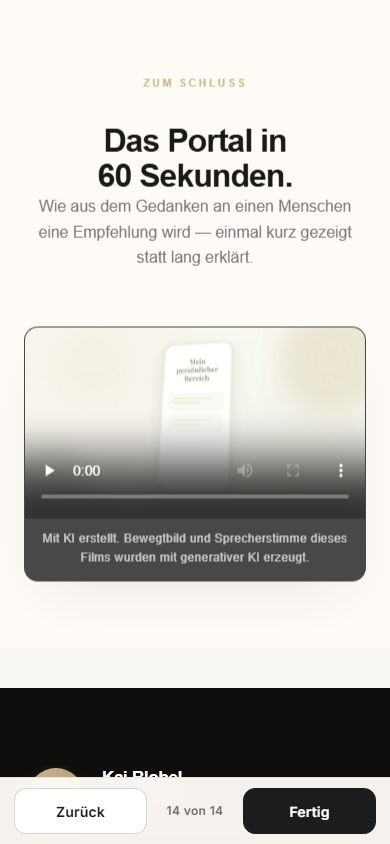
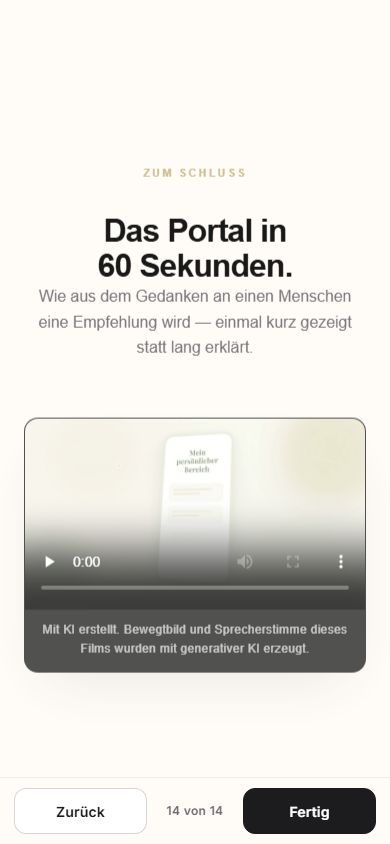
v1.190 Phase 164: Mobile Fuehrung - volle Seiten, weichende Leiste
Kais Rueckmeldung vom Handy: Beim freien Scrollen stand die Leiste im
Weg, und Weiter zeigte Abschnitte nur angeschnitten. Jetzt fuellt jeder
Abschnitt in der Fuehrung mindestens den Bildschirm (Weiter zeigt immer
eine komplette Seite), und beim Scrollen mit Finger oder Mausrad weicht
die Leiste nach unten, bis das Scrollen ruht. Bei Spruengen ueber
Zurueck/Weiter bleibt sie stehen. Erkannt am direkten Signal
(touchmove/wheel), nicht am Scroll-Ereignis.

Kennungen programm.css?v=90 / programm.js?v=50, Service-Worker
v149-2026-08-09b, neue Zusicherungen im Test, 29 Browserpruefungen gruen.

diff --git a/css/programm.css b/css/programm.css
@@ -6325,3 +6325,43 @@ body.presentation-video .reveal { opacity: 1; transform: none; transition: none;
 @media (max-width: 767px) and (prefers-reduced-motion: reduce) {
   .mobile-guide-btn { transition: none; }
 }
+
+/* ============================================================
+   Phase 164 · Mobile Führung: volle Seiten, weichende Leiste
+   ------------------------------------------------------------
+   Kais Rückmeldung vom ersten Live-Tag: Beim freien Scrollen
+   stand die Leiste im Weg, und Weiter zeigte Abschnitte nur
+   angeschnitten. Deshalb: (1) Jeder Abschnitt füllt in der
+   Führung mindestens den Bildschirm — Weiter zeigt immer eine
+   komplette Seite, nichts ragt vom nächsten Thema herein.
+   Längere Abschnitte wachsen darüber hinaus und scrollen normal.
+   (2) Beim Scrollen mit dem Finger weicht die Leiste nach unten
+   und kommt zurück, sobald das Scrollen ruht. Bei Sprüngen über
+   Zurück/Weiter bleibt sie stehen, sonst verschwände sie unter
+   dem Daumen. :where() hält die Ausnahme-Spezifität bei null,
+   damit die Phase-163-Regeln für Hero und Zufriedenheit weiter
+   gewinnen.
+   ============================================================ */
+@media (max-width: 767px) {
+  /* Vollbild je Abschnitt; die Zufriedenheits-Sektion regelt ihr
+     Vollbild-Layout seit Phase 163 selbst (padding sitzt innen). */
+  body.mobile-guided section.section:where(:not(.pre-hero)) {
+    min-height: 100vh;
+    min-height: 100svh;
+    padding-bottom: calc(88px + env(safe-area-inset-bottom));
+  }
+  /* Zentrieren + Kopf-Abstand nur für die Flex-Abschnitte; die zwei
+     randlosen Grid-Flächen (Tür-Botschaft, Förder-Rechner) und die
+     Zufriedenheit ordnen ihren Inhalt selbst. */
+  body.mobile-guided section.section:where(:not(.pre-hero):not(.promoter-message):not(.foerder-rechner)) {
+    justify-content: center;
+    padding-top: 72px;
+  }
+
+  body.mobile-guided .mobile-guide { transition: transform 0.28s ease; }
+  body.mobile-guided .mobile-guide.weicht { transform: translateY(110%); }
+}
+
+@media (max-width: 767px) and (prefers-reduced-motion: reduce) {
+  body.mobile-guided .mobile-guide { transition: none; }
+}

diff --git a/js/programm.js b/js/programm.js
@@ -1005,6 +1005,30 @@ if (hero) heroObserver.observe(hero);
     }
   }
 
+  // Beim Scrollen mit dem Finger weicht die Leiste, damit sie keinen Inhalt
+  // verdeckt; ruht das Scrollen, steht sie wieder. Erkannt wird das am
+  // direkten Signal (Finger auf dem Schirm, Mausrad) — Sprünge über die
+  // Knöpfe erzeugen keines von beiden, dabei bleibt die Leiste also stehen
+  // und verschwindet nicht unter dem Daumen, der gerade klickt.
+  let ruheTimer = 0;
+
+  function planeRueckkehr() {
+    window.clearTimeout(ruheTimer);
+    ruheTimer = window.setTimeout(() => {
+      guide.classList.remove('weicht');
+      zeichne();
+    }, 320);
+  }
+
+  function verstecke() {
+    if (!kleinerSchirm.matches) return;
+    guide.classList.add('weicht');
+    planeRueckkehr();
+  }
+
+  window.addEventListener('touchmove', verstecke, { passive: true });
+  window.addEventListener('wheel', verstecke, { passive: true });
+
   function springeZu(section) {
     section?.scrollIntoView({
       behavior: ruhigeBewegung.matches ? 'auto' : 'smooth',
@@ -1030,14 +1054,20 @@ if (hero) heroObserver.observe(hero);
   function schalte() {
     const aktiv = kleinerSchirm.matches;
     guide.hidden = !aktiv;
+    guide.classList.remove('weicht');
+    window.clearTimeout(ruheTimer);
     document.body.classList.toggle('mobile-guided', aktiv);
     if (aktiv) zeichne();
   }
 
-  // Beim Scrollen den Stand nachführen — gebündelt auf einen Frame.
+  // Beim Scrollen den Stand nachführen — gebündelt auf einen Frame. Läuft
+  // die Seite nach dem Loslassen des Fingers noch aus, hält jedes
+  // Scroll-Ereignis die gewichene Leiste weiter unten, bis 320 ms Ruhe sind.
   let angefragt = false;
   window.addEventListener('scroll', () => {
-    if (!kleinerSchirm.matches || angefragt) return;
+    if (!kleinerSchirm.matches) return;
+    if (guide.classList.contains('weicht')) planeRueckkehr();
+    if (angefragt) return;
     angefragt = true;
     requestAnimationFrame(() => { angefragt = false; zeichne(); });
   }, { passive: true });

diff --git a/programm.html b/programm.html
@@ -15,7 +15,7 @@
   <meta name="twitter:image" content="https://empfehlungsportal.vercel.app/assets/images/og-cover.png" />
 
   <link rel="stylesheet" href="css/style.css?v=33" />
-  <link rel="stylesheet" href="css/programm.css?v=89" />
+  <link rel="stylesheet" href="css/programm.css?v=90" />
   <script src="js/config.js"></script>
 </head>
 <body data-page="programm">
@@ -917,6 +917,6 @@
 
 
   <script>document.getElementById('footerYear').textContent = new Date().getFullYear();</script>
-  <script type="module" src="js/programm.js?v=49"></script>
+  <script type="module" src="js/programm.js?v=50"></script>
 </body>
 </html>

diff --git a/js/config.js b/js/config.js
@@ -7,5 +7,5 @@ window.ENV_BERATER_TITEL = 'Regionaldirektion · Team Wachsbleiche';
 window.ENV_BERATER_FOTO = '/assets/images/kai-portrait.jpg';
 window.ENV_CALENDLY_URL = ''; // sobald Kai einen Link schickt, hier eintragen — Karte erscheint automatisch
 window.ENV_TURNSTILE_SITE_KEY = ''; // optionaler statischer Fallback; produktiv kommt der Site-Key aus /api/promoter-config
-window.APP_VERSION = 'v1.189 Beta';
-window.APP_PHASE = 'Phase 163 · Geführte mobile Präsentation';
+window.APP_VERSION = 'v1.190 Beta';
+window.APP_PHASE = 'Phase 164 · Mobile Führung: volle Seiten, weichende Leiste';

diff --git a/sw.js b/sw.js
@@ -13,7 +13,7 @@
  * trägt — die darf nie veraltet sein.
  */
 
-const CACHE_VERSION = 'v148-2026-08-09';
+const CACHE_VERSION = 'v149-2026-08-09b';
 const SHELL_CACHE = `shell-${CACHE_VERSION}`;
 const ASSET_CACHE = `assets-${CACHE_VERSION}`;
 

diff --git a/CHANGELOG.md b/CHANGELOG.md
@@ -1,9 +1,26 @@
 # Changelog · Empfehlungsportal
 
 Versionierung: `v1.{Phase}` — jede Phase im Build-Plan bekommt eine Minor.
-Offizielle Live-Version: **v1.189 Beta** · Geführte mobile Präsentation, live seit 09.08.2026.
+Offizielle Live-Version: **v1.190 Beta** · Mobile Führung mit vollen Seiten und weichender Leiste, live seit 09.08.2026.
 
 ---
+
+## v1.190 Beta - Phase 164 · Mobile Führung: volle Seiten, weichende Leiste
+**2026-08-09 · live veröffentlicht**
+
+Kais Rückmeldung direkt vom Handy nach dem v1.189-Start: Beim freien Scrollen stand die
+Leiste im Weg, und Weiter zeigte manche Abschnitte nur angeschnitten.
+
+- **Jeder Abschnitt füllt in der Führung mindestens den Bildschirm.** Weiter zeigt damit
+  immer eine komplette Seite, nichts ragt vom nächsten Thema herein. Kürzere Abschnitte
+  zentrieren ihren Inhalt, längere (Rechner, Themen, Belohnungs-Reise, Video) wachsen
+  darüber hinaus und scrollen normal. Die zwei randlosen Grid-Flächen (Tür-Botschaft,
+  Förder-Rechner) und der Zufriedenheits-Abschnitt ordnen ihren Inhalt weiter selbst.
+- **Beim Scrollen mit dem Finger weicht die Leiste nach unten** und kommt zurück, sobald
+  das Scrollen etwa eine Drittelsekunde ruht. Bei Sprüngen über Zurück/Weiter bleibt sie
+  bewusst stehen — sonst verschwände sie unter dem Daumen, der gerade klickt.
+- Kennungen auf `programm.css?v=90` / `programm.js?v=50`, Service-Worker `v149-2026-08-09b`,
+  neue Zusicherungen im Test `praesentation-mobile-gefuehrt`.
 
 ## v1.189 Beta - Phase 163 · Geführte mobile Präsentation
 **2026-08-09 · live veröffentlicht** (vorbereitet auf `codex/mobile-praesentation-gefuehrt`, nach Kais Freigabe auf main übernommen)

diff --git a/CLAUDE.md b/CLAUDE.md
@@ -1,6 +1,6 @@
 <!-- odysseus-passport
 purpose: Empfehlungsportal für DVAG-Berater - Vanilla JS + eigene Supabase; Funnel Klick zu Interesse zu Kunde, echte Kennzahlen, Champions, Prämien; Cockpit-Brücke
-status: live v1.189 mit gefuehrter mobiler Praesentation (feste Leiste Zurueck/Fortschritt/Weiter bis 767px, dynamische Abschnittszaehlung fuer alle drei Laengen, Vollbild-Einstieg und Vollbild-Zufriedenheitsskala), QR-Selbstanmeldung, sofortigem Hinweis bei neuen Promotern, Praesentation in drei Laengen (60 Sek. / Kurz / Ausfuehrlich), Formel-Video und serverseitig erzwungener Mandantentrennung bei Promoter-Empfehlungen; beide Erklaervideos KI-gekennzeichnet (sichtbar + C2PA), Phase 163 aktiv
+status: live v1.190 mit gefuehrter mobiler Praesentation (feste Leiste Zurueck/Fortschritt/Weiter bis 767px, jeder Abschnitt als volle Seite, Leiste weicht beim freien Scrollen, dynamische Abschnittszaehlung fuer alle drei Laengen, Vollbild-Einstieg und Vollbild-Zufriedenheitsskala), QR-Selbstanmeldung, sofortigem Hinweis bei neuen Promotern, Praesentation in drei Laengen (60 Sek. / Kurz / Ausfuehrlich), Formel-Video und serverseitig erzwungener Mandantentrennung bei Promoter-Empfehlungen; beide Erklaervideos KI-gekennzeichnet (sichtbar + C2PA), Phase 164 aktiv
 live_url: https://empfehlungsportal.vercel.app
 tags: portal, supabase, empfehlung, promoter, mobile-first, live, baufinanzierung, kfw, bookings, power-automate
 -->
